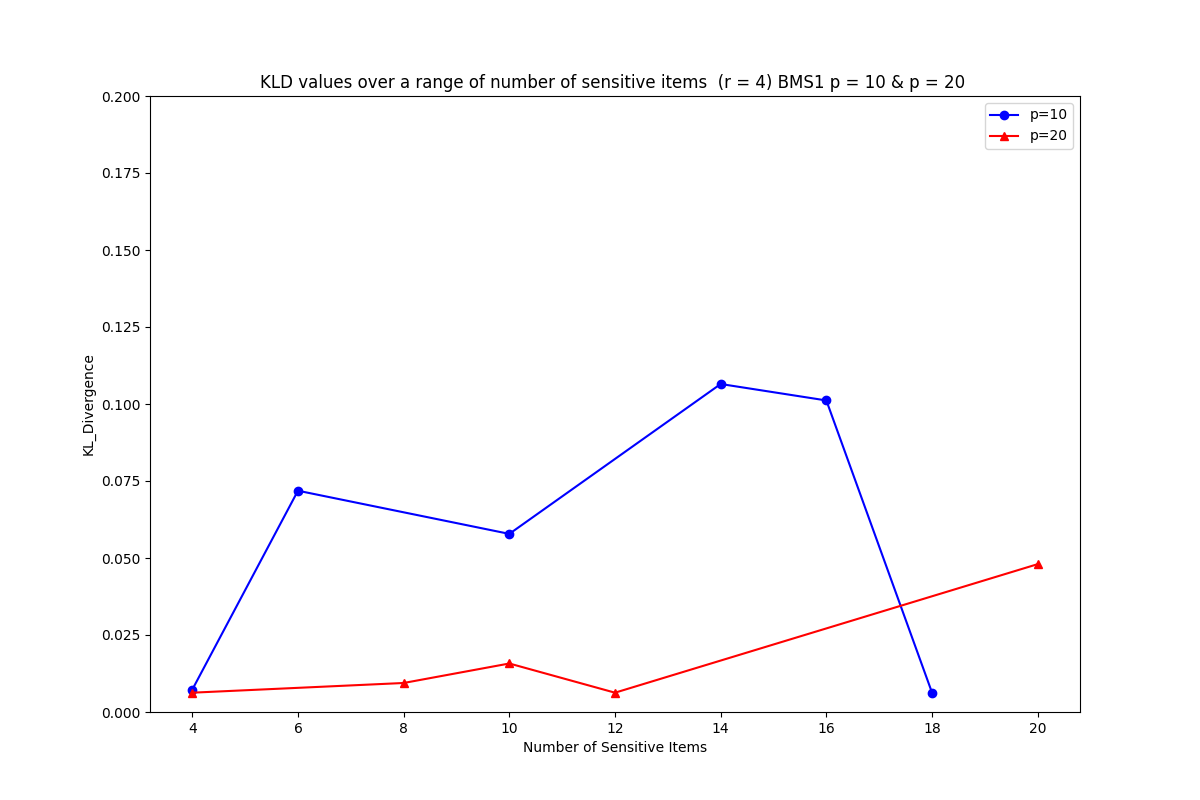
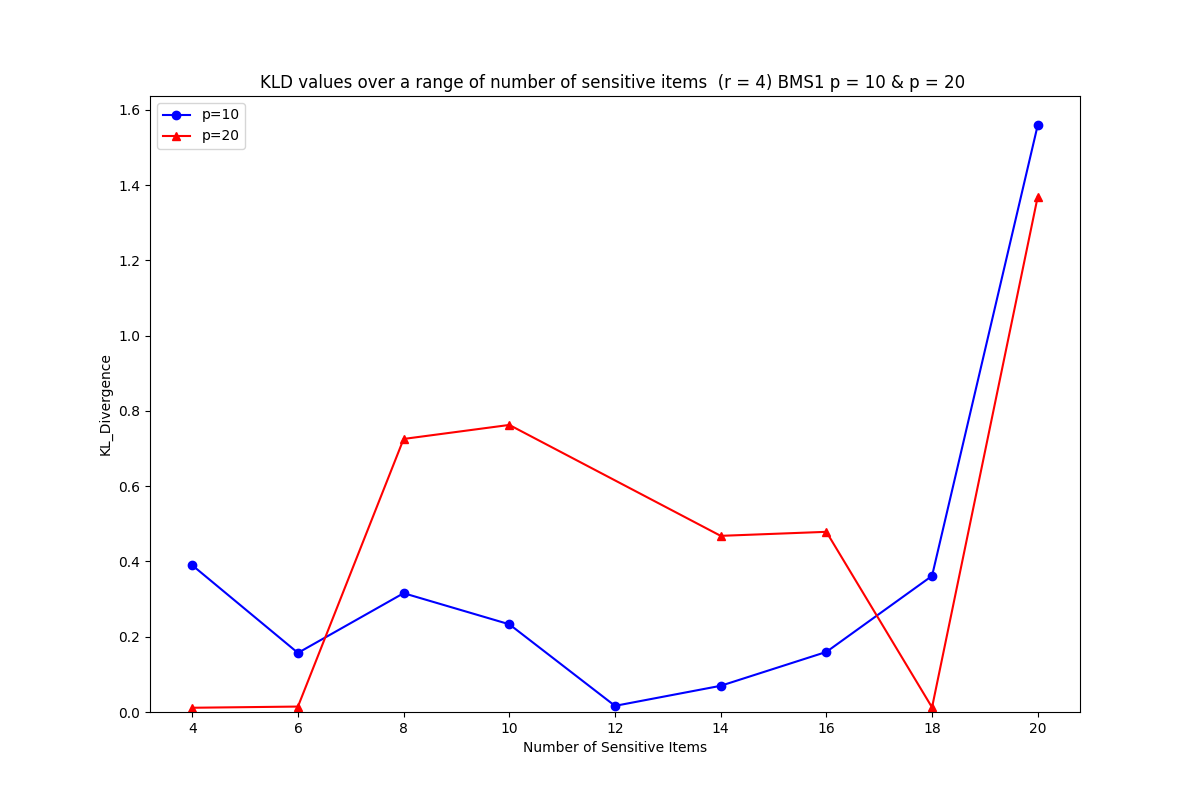
added analysis of r values

diff --git a/main_r_range.py b/main_r_range.py
@@ -8,12 +8,13 @@ from band_matrix import compute_band_matrix, logger
 
 if __name__ == "__main__":
     bm_size = 1000  # band matrix size
-    num_sensitive_list = [4, 6, 8, 10, 12, 14, 16, 18, 20]  # number of sensitive items
+    num_sensitive = 10  # number of sensitive items
     # p_degree = 5  # the degree of privacy
     alpha = 3
     # [4, 6, 8, 10, 12, 14, 16, 18, 20]
     p_degree = 20
     # p_degree_list = [4, 6]
+    r_list = [2, 4,6,8]
 
     CAHD_execution_times = list()
     KLD_execution_times = list()
@@ -26,27 +27,25 @@ if __name__ == "__main__":
     # get the start time to calculate execution time
     start_time = time.time()
 
+    print("Calculating band matrix")
+    df_square, items, sensitive_items = compute_band_matrix(dataset=df, bm_size=bm_size, num_sensitive=num_sensitive,
+                                                            plot=True)
 
-    for m in num_sensitive_list:
+    # Apply CAHD algorithm to create
+    cahd = CAHD(band_matrix=df_square, sensitive_items=sensitive_items, p_degree=p_degree, alpha_=alpha)
+    print(cahd.group_dict)
+    cahd.compute_hist()
+    hist_item = cahd.hist
+    print(f"\nStarting the anonymization process for Privacy_Degree: {p_degree}")
+    logger("Histogram Items", hist_item)
+    cahd.create_groups()
+    end_time = time.time() - start_time
 
-        print("Calculating band matrix")
-        df_square, items, sensitive_items = compute_band_matrix(dataset=df, bm_size=bm_size, num_sensitive=m,
-                                                                plot=True)
-        # Apply CAHD algorithm to create
-        cahd = CAHD(band_matrix=df_square, sensitive_items=sensitive_items, p_degree=p_degree, alpha_=alpha)
-        print(cahd.group_dict)
-        cahd.compute_hist()
-        hist_item = cahd.hist
-        print(f"\nStarting the anonymization process for Number of Sensitive Items: {m}")
-        logger("Histogram Items", hist_item)
-        cahd.create_groups()
-        end_time = time.time() - start_time
+    # append CAHD execution time for current parameters
+    CAHD_execution_times.append(int(end_time))
+    print(f"Privacy-degree: {cahd.p_degree}\nTime required for creating the anonymized groups: {end_time}\n")
 
-        # append CAHD execution time for current parameters
-        CAHD_execution_times.append(int(end_time))
-        print(f"Privacy-degree: {cahd.p_degree}, Num. Sensitive:{m}\nTime required for creating the anonymized groups: {end_time}\n")
-
-        r = 4
+    for r in r_list:
         QID = cahd.group_list[0].columns.tolist()
         logger("QID list", QID)
         QID_select = list()
@@ -74,10 +73,11 @@ if __name__ == "__main__":
         # logger("KLD all combinations of n for cell C", all_value)
 
         # Calculate KL_Divergence value
-        KL_Divergence = KLDivergence.compute_KLDivergence_value(df_square, QID_select, cahd.SD_groups, cahd.group_list,
+        KL_Divergence = KLDivergence.compute_KLDivergence_value(df_square, QID_select, cahd.SD_groups,
+                                                                cahd.group_list,
                                                                 sensitive_items, all_value)
 
-        print(f"\n{'-' * 20}\nKL_Divergence Total: {KL_Divergence}, Num_sensitive: {m} Privacy degree: {p_degree},"
+        print(f"\n{'-' * 20}\nKL_Divergence Total: {KL_Divergence}, r: {r} Privacy degree: {p_degree},"
               f"Sensitive Item: {sensitive_item}\nQID_select: {QID_select}\n{'-' * 20}\n")
 
         # append KLD values and respective calculation times
@@ -87,19 +87,19 @@ if __name__ == "__main__":
 
     # open a file to note KLD values for different privacy degrees
     # create df to write plotable data
-    dict_to_plot = {"num_sensitive": [],
+    dict_to_plot = {"num_sensitive": num_sensitive,
                     "bm_size": bm_size,
-                    "r": 4,
+                    "r": [],
                     "p_degree": p_degree,
                     "KLD_value": [],
                     "KLD_exec_time": [],
-                    "CAHD_exec_time": []
+                    "CAHD_exec_time": CAHD_execution_times[0]
                     }
-    for idx in range(len(num_sensitive_list)):
-        dict_to_plot["num_sensitive"].append(num_sensitive_list[idx])
+    for idx in range(len(r_list)):
+        dict_to_plot["r"].append(r_list[idx])
         dict_to_plot["KLD_value"].append(KL_values[idx])
         dict_to_plot["KLD_exec_time"].append(KLD_execution_times[idx])
-        dict_to_plot["CAHD_exec_time"].append(CAHD_execution_times[idx])
+        # dict_to_plot["CAHD_exec_time"].append(CAHD_execution_times[idx])
 
     df_to_plot = pd.DataFrame.from_dict(dict_to_plot)
-    df_to_plot.to_csv(f"./Data_to_plot/BMS1_seed_42_{bm_size}_p{p_degree}_m_change.csv", index=False)
+    df_to_plot.to_csv(f"./Data_to_plot/BMS1_seed_42_bm{bm_size}_p{p_degree}_r_range.csv", index=False)

diff --git a/plot_general.py b/plot_general.py
@@ -3,11 +3,11 @@ import matplotlib.pyplot as plt
 from band_matrix import compute_band_matrix, logger
 
 if __name__ == "__main__":
-    BMS1_m10_privacy_ranged_df = pd.read_csv("./Data_to_plot/BMS1_seed_13_1000_10.csv")
-    BMS1_m20_privacy_ranged_df = pd.read_csv("./Data_to_plot/BMS1_seed_13_1000_20.csv")
+    BMS1_m10_privacy_ranged_df = pd.read_csv("./Data_to_plot/BMS1_seed_42_1000_10.csv")
+    BMS1_m20_privacy_ranged_df = pd.read_csv("./Data_to_plot/BMS1_seed_42_1000_20.csv")
 
-    BMS1_p10_sensitive_ranged = pd.read_csv("./Data_to_plot/BMS1_1000_10_num_sensitive_change.csv")
-    BMS1_p20_sensitive_ranged = pd.read_csv("./Data_to_plot/BMS1_1000_20_num_sensitive_change.csv")
+    BMS1_p10_sensitive_ranged = pd.read_csv("./Data_to_plot/BMS1_seed_42_1000_p10_m_change.csv")
+    BMS1_p20_sensitive_ranged = pd.read_csv("./Data_to_plot/BMS1_seed_42_1000_p20_m_change.csv")
 
     logger("BMS1_m10_privacy_ranged_df", BMS1_m10_privacy_ranged_df)
     logger("BMS1_m20_privacy_ranged_df", BMS1_m20_privacy_ranged_df)
@@ -29,7 +29,7 @@ if __name__ == "__main__":
     # Plot KLD values wrt a range of privacy degrees
     plt.plot(BMS1_m10["p_degree"], BMS1_m10["KLD_value"], marker='o', linestyle='-', color='b', label="m=10")
     plt.plot(BMS1_m20["p_degree"], BMS1_m20["KLD_value"], marker='^', linestyle='-', color='r', label="m=20")
-    plt.ylim(ymax=0.1)
+    # plt.ylim(ymax=0.1)
     plt.ylim(ymin=0)
     # plt.xlim(xmin=0)
     plt.xlabel("Privacy degree")
@@ -45,7 +45,7 @@ if __name__ == "__main__":
     plt.figure(figsize=(12, 8))
     plt.plot(BMS1_p10["num_sensitive"], BMS1_p10["KLD_value"], marker='o', linestyle='-', color='b', label="p=10")
     plt.plot(BMS1_p20["num_sensitive"], BMS1_p20["KLD_value"], marker='^', linestyle='-', color='r', label="p=20")
-    plt.ylim(ymax=0.2)
+    # plt.ylim(ymax=0.2)
     plt.ylim(ymin=0)
     # plt.xlim(xmin=0)
     plt.xlabel("Number of Sensitive Items")
